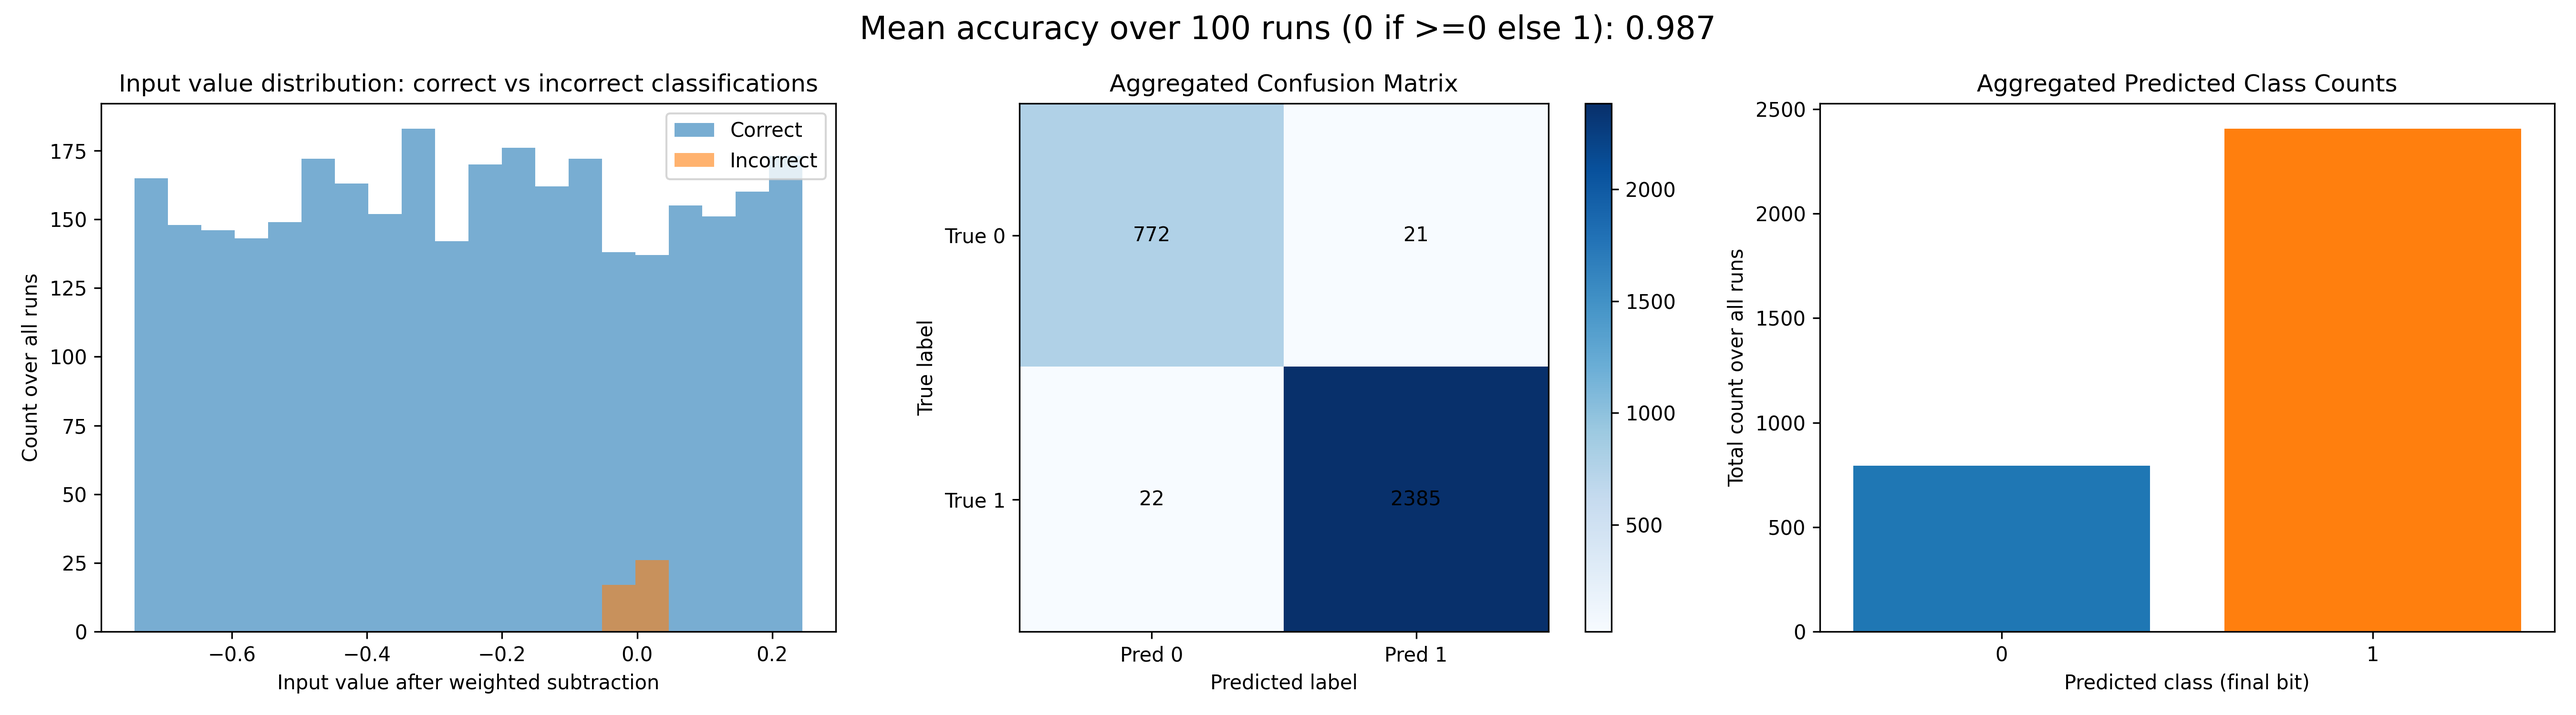
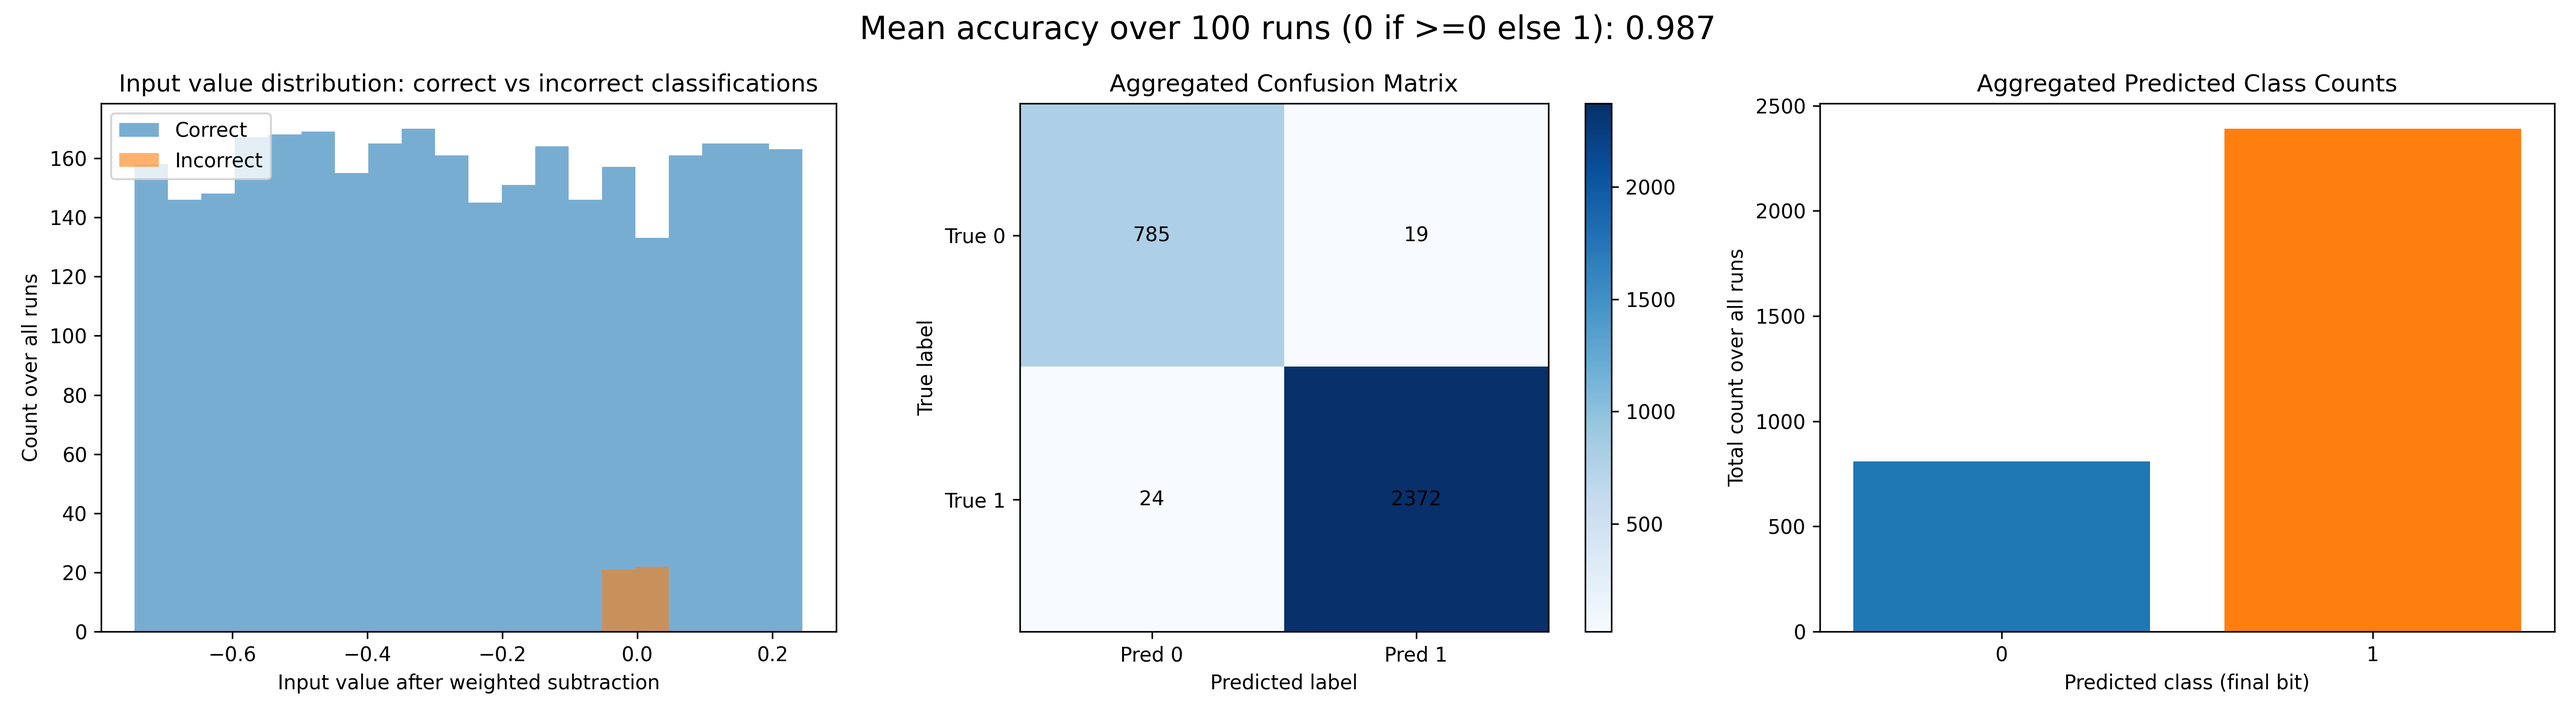
updated datainfo

diff --git a/ehands_qcrank_vertex_classification_flat.py b/ehands_qcrank_vertex_classification_flat.py
@@ -48,13 +48,14 @@ print("imports complete")
 
 
 class DataInfo:
-    __slots__ = ('n_data', 'nq_addr', 'nq_data', 'num_q', 'addr_qL', 'data_qL', 'data_inp')
-    def __init__(self, n_cubes, data_range, isovalue=0.5):
+    __slots__ = ('n_data', 'nq_addr', 'nq_data', 'num_q', 'n_circuits', 'addr_qL', 'data_qL', 'data_inp')
+    def __init__(self, n_cubes, data_range, n_circuits=1, isovalue=0.5):
         self.n_data = n_cubes * 8 # data per array
         self.nq_addr = (self.n_data - 1).bit_length()
         self.nq_data = 1
+        self.n_circuits = n_circuits
         # Address space is 2^nq_addr rows; indices [0, n_data) get random data, [n_data, ...) stay 0.
-        self.data_inp = np.zeros((2**self.nq_addr, 1, 1))
+        self.data_inp = np.zeros((2**self.nq_addr, self.nq_data, self.n_circuits))
         self.data_inp[:self.n_data, :, 0] = np.random.uniform(
             data_range[0], data_range[1], size=(self.n_data, 1)
         )
@@ -445,7 +446,7 @@ def test_qcrank_ehands_c_classify_flat(n_cubes, isovalue, weight, sim):
         vc.add_meas(q_classify=False, c_classify=True)
 
         # Run Simulation
-        n_shots = vc.di.n_data * (2**12)
+        n_shots = 10 * vc.di.n_data * (2**12)
         countsL = run_sim_job_qcrank(vc.eqd, sim, n_shots, verbose)
 
         # Recover the data from QC
